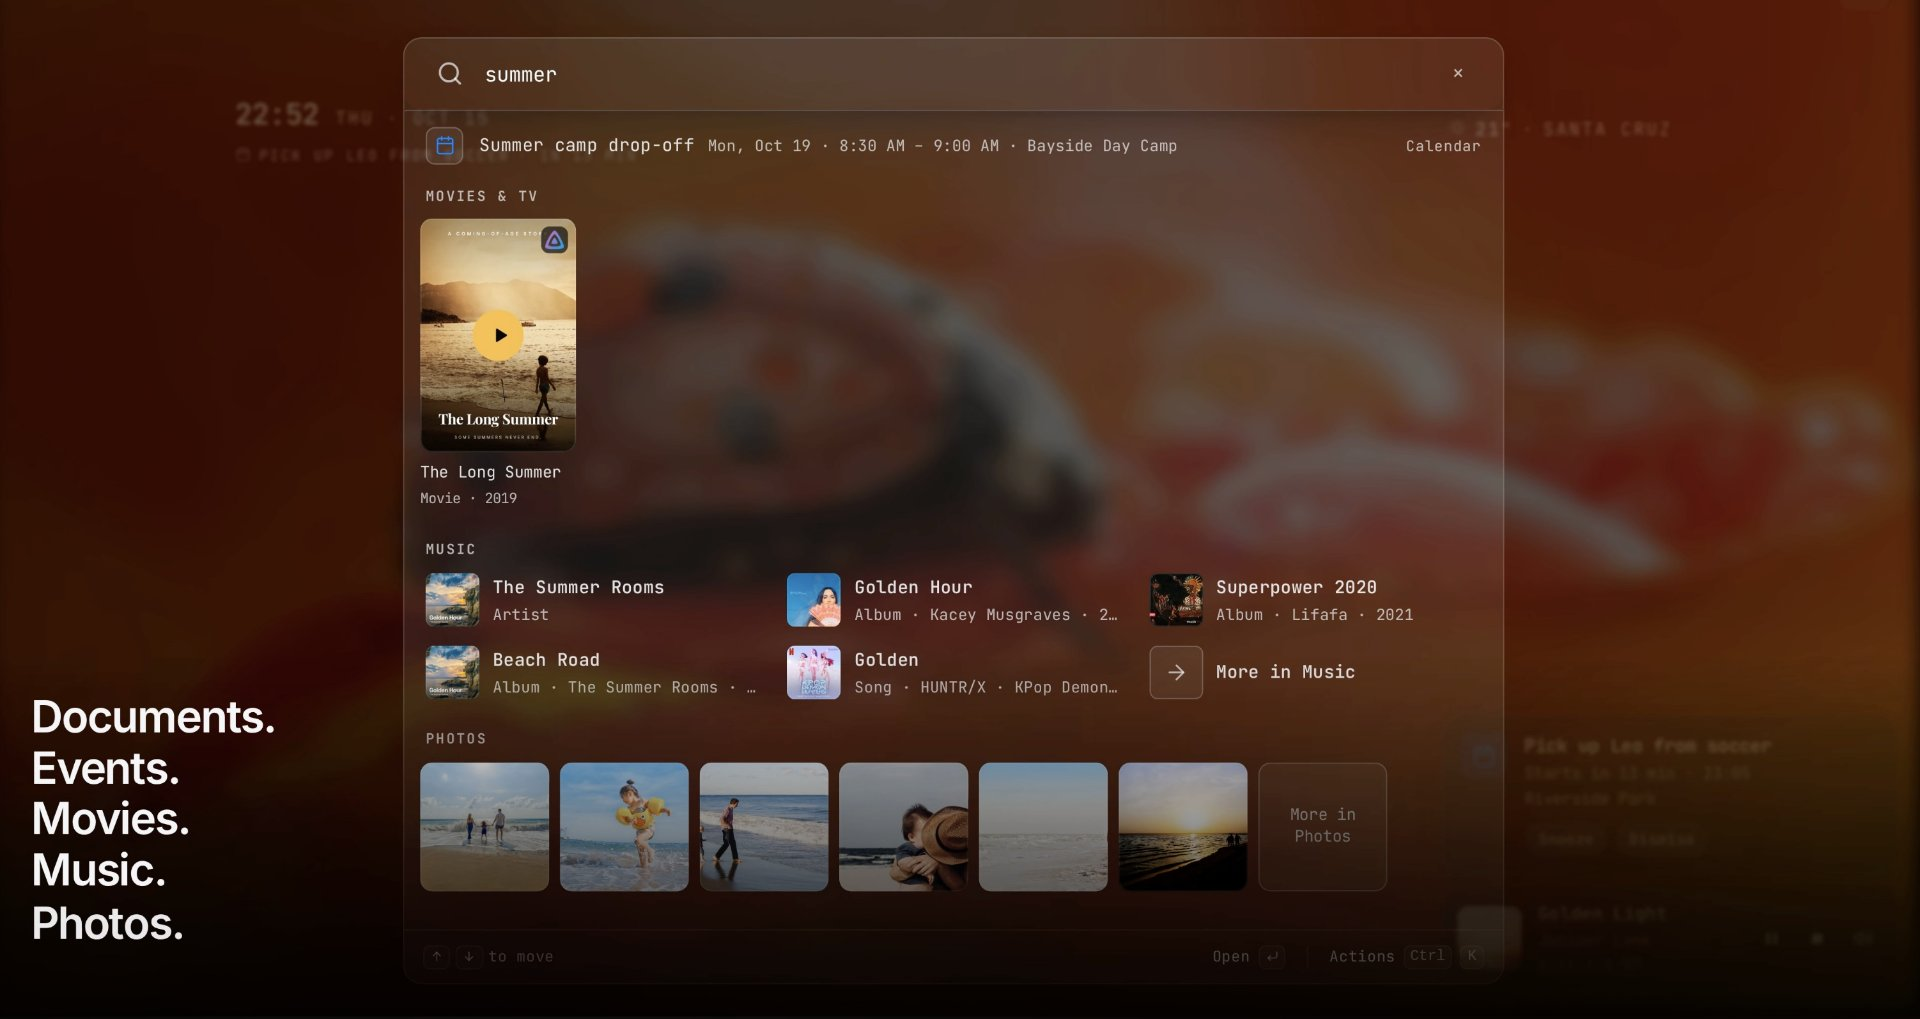
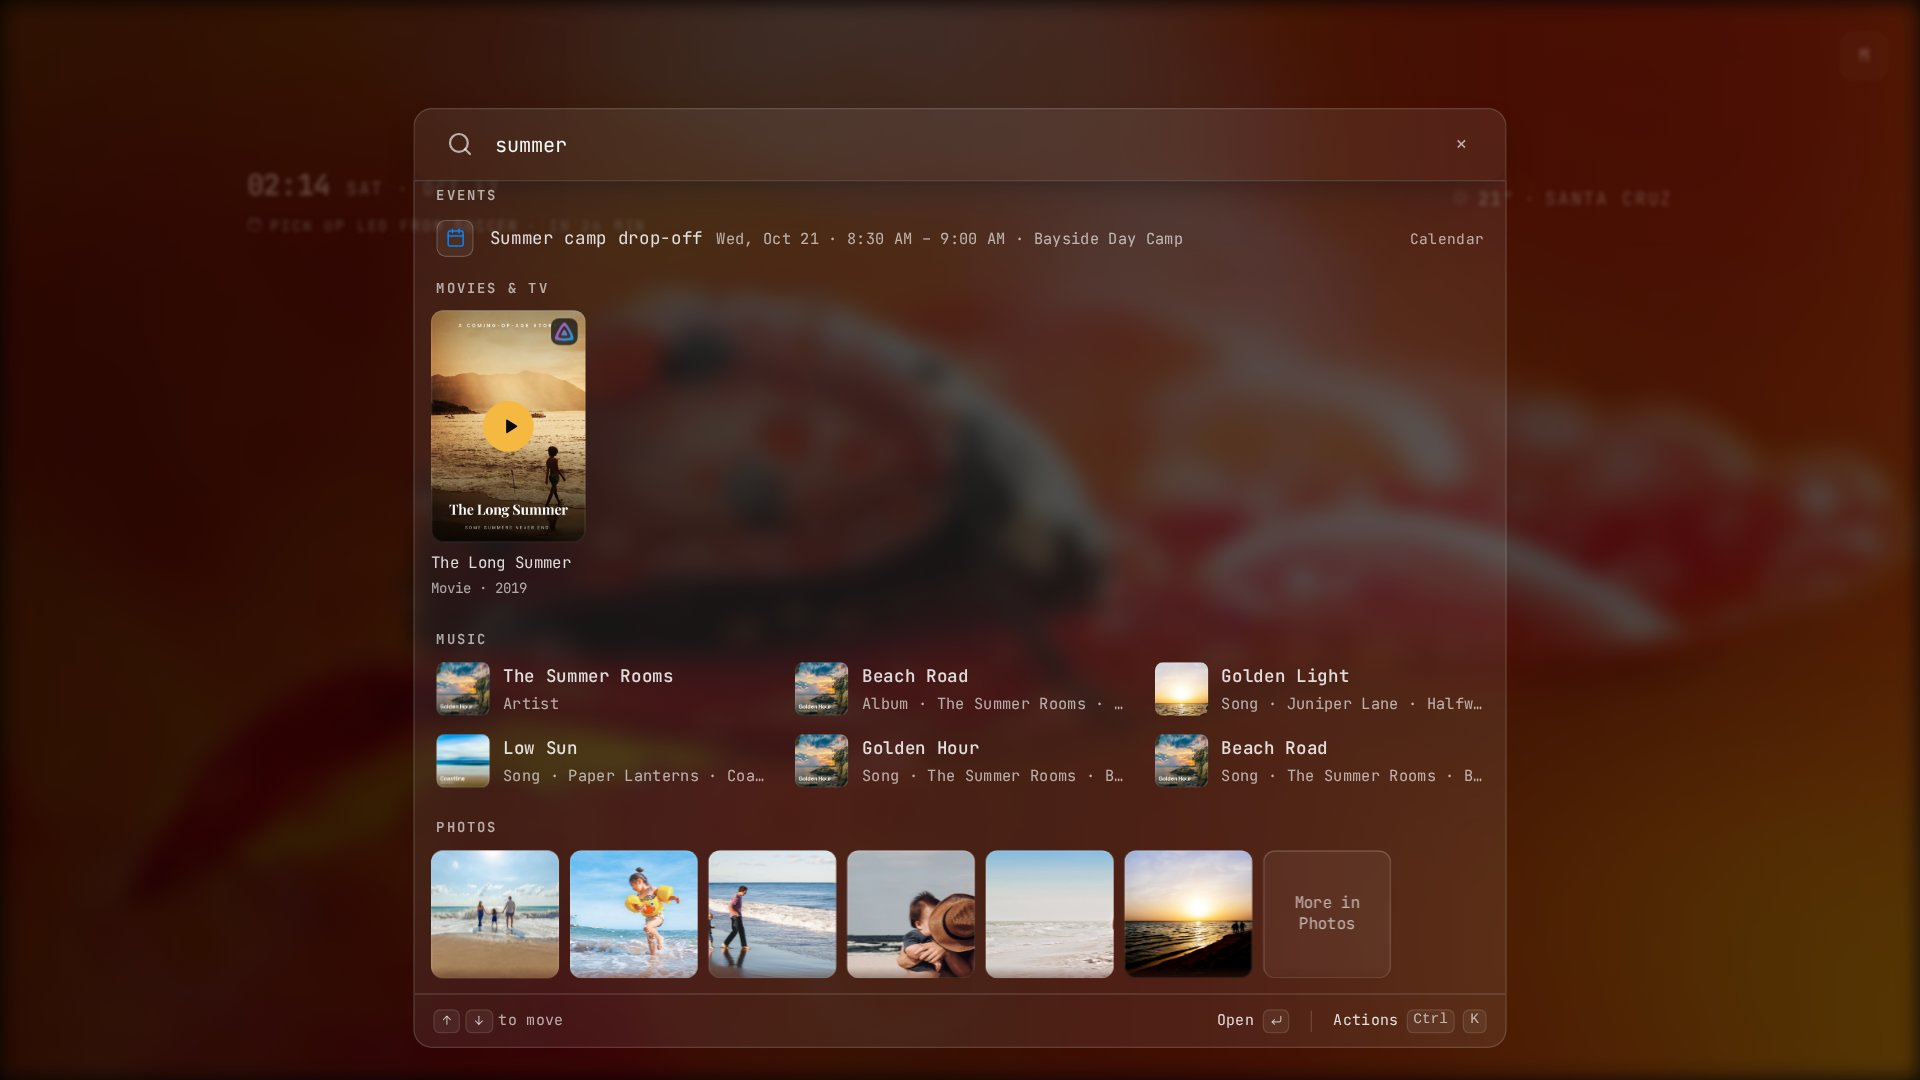
README: our own media in the search shots, add film detail and first visit
The search, film detail and first-visit shots use the demo profile's
invented titles and CC0 photos only. The phone shot is retaken on the
current UI.

diff --git a/README.md b/README.md
@@ -24,6 +24,11 @@ Search reaches inside the apps people have connected, with their own login: one 
 ![Launcher searching a calendar, Jellyfin, music and photos at once](docs/screenshots/integrations.jpg)
 <sub>Mock data. The photos are CC0 from StockSnap.</sub>
 
+Open a result for its details and play it straight from the launcher.
+
+![A film's details in the launcher, with Play on Jellyfin](docs/screenshots/film-detail.jpg)
+<sub>Mock data. The poster, album covers and titles are made up for the demo.</sub>
+
 With Seerr connected, films and shows that aren't on the media server yet can be requested right from the results, as that person. Titles already there play in Jellyfin or Plex.
 
 ![Launcher with Seerr: play what's there, request what isn't](docs/screenshots/seerr.jpg)
@@ -32,6 +37,10 @@ With Seerr connected, films and shows that aren't on the media server yet can be
 Each app can carry a short setup guide: what to install, the steps, and the server URL to copy.
 
 ![Setup guide for Photos](docs/screenshots/setup-guide.jpg)
+
+Someone's first visit is already set up: a welcome, the apps they've been given, and a guide for each.
+
+![First visit: welcome slide, their apps, a setup guide](docs/screenshots/first-visit.jpg)
 
 ## Try it in one command
 
